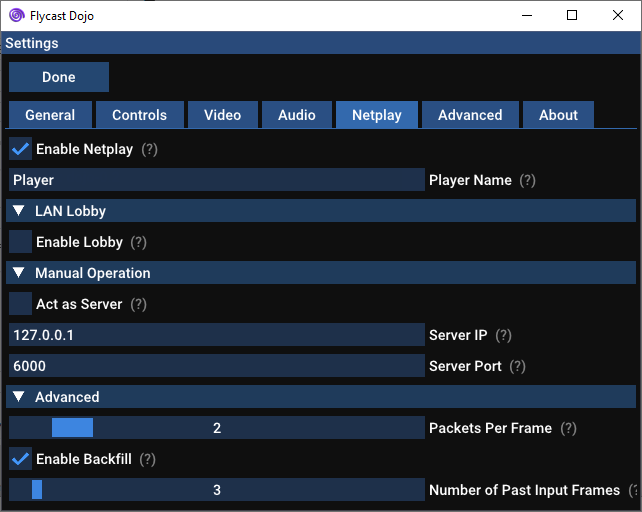
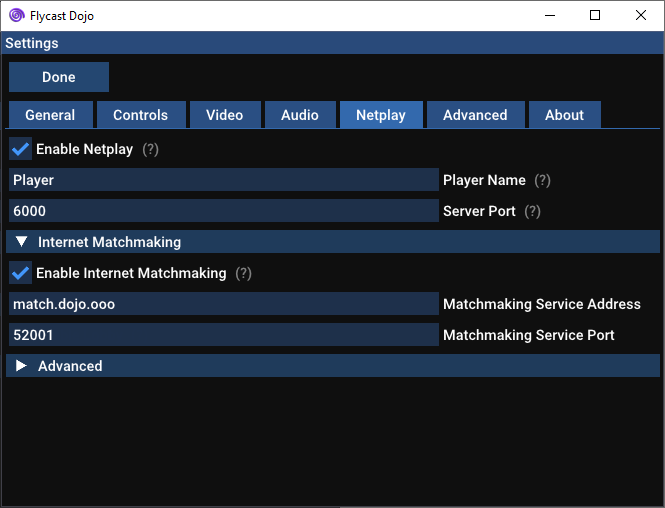
update README, edit ROM folder details, Netplay settings, Match Code command line

diff --git a/README.md b/README.md
@@ -37,17 +37,13 @@ General information about Flycast configuration and supported features can be fo
 - [Roadmap](#roadmap)
 
 # Getting Started
-To get started with Flycast Dojo, make sure that you have the appropriate ROMs and BIOS files available in your ROM and data folders. At the time of writing, the preferred MAME romset for NAOMI & Atomiswave games is the **MAME 0.218** romset.
+To get started with Flycast Dojo, make sure that you have the appropriate ROMs and BIOS files available in your ROM and data folders. At the time of writing, the preferred MAME romset for NAOMI & Atomiswave games is the **MAME 0.226** romset.
 
-If you are running Fightcade, you can find the ROMs folder at `Fightcade\emulator\flycast\ROMS` while non-Fightcade users are free to create a `games` directory inside of the folder they installed Flycast, or point to any other directory on their computer as a **"Content Location"** in the settings.
+If you are running Fightcade, you can find the ROMs folder at `Fightcade\emulator\flycast\ROMS` while non-Fightcade users can use the `ROMS` folder in the Flycast folder.
 
 For the sake of performance, it is advised that you keep your games and the emulator on the same drive.
 
 For the BIOS, be sure to add `awbios.zip` for Atomiswave games or `naomi.zip` for NAOMI games into your `data` directory in the folder you have Flycast installed. In your settings, the folder Flycast is installed in is your **"Home Directory"**.
-
-*In the case of The King of Fighters XI (**kofxi.zip**), the **MAME 0.226** version is known to work, and is the preferred ROM.*
-
-If you plan on using the built-in LAN Lobby, make sure that your **"Content Location"** is set to wherever you are holding your ROMs.
 
 For more information on verifying your BIOS files, you can head to the [Flycast wiki page](https://github.com/TheArcadeStriker/flycast-wiki/wiki/Verifying-your-BIOS-and-Arcade-ROMs) on the topic.
 
@@ -64,9 +60,16 @@ The following is a sample mapping for XInput (XBOX 360) Controllers created by *
 
 
 # Starting a Netplay Session
+
+## Netplay Settings
 You can find the Netplay settings under the "Netplay" section of the emulator's settings:
 
 ![Netplay Options](netplay1.png)
+
+Match Codes are enabled by default, pointing to the default matchmaking relay. To use the LAN Lobby or Manual Operation (i.e., Command Line or External Lobbies) just disable the checkbox from "Enable Internet Matchmaking", or pass `dojo:EnableMatchCode=no` to the command line options.
+
+![Netplay Options - Match Codes Disabled](netplay2.png)
+
 ## Match Code Quick Start
 Using Match Codes, Flycast Dojo can start a P2P game session behind firewalls, so that you can play against others without the need of Radmin or Fightcade. No need to sign up for any accounts or download additional software than Flycast Dojo itself. You should be able to play any games supported by Flycast, so long as you and your opponent have the same ROM.
 
@@ -198,11 +201,11 @@ If your ROM is found in this file, the MD5 Checksum window will say *"Validation
 # Command Line
 You may also call Flycast from the command line. All command line flags correspond with the options found in `emu.cfg`. Here are some example calls:
 
-## Server
-```flycast.exe -config dojo:Enable -config dojo:ActAsServer=yes -config dojo:ServerPort=6000 ControllerTest-DJ.cdi```
+## Server (Without Match Codes)
+```flycast.exe -config dojo:Enable dojo:EnableMatchCode=no -config dojo:ActAsServer=yes -config dojo:ServerPort=6000 ControllerTest-DJ.cdi```
 
-## Client
-```flycast.exe -config dojo:Enable -config dojo:ActAsServer=no -config dojo:ServerIP=127.0.0.1 -config dojo:ServerPort=6000 ControllerTest-DJ.cdi```
+## Client (Without Match Codes)
+```flycast.exe -config dojo:Enable dojo:EnableMatchCode=no -config dojo:ActAsServer=no -config dojo:ServerIP=127.0.0.1 -config dojo:ServerPort=6000 ControllerTest-DJ.cdi```
 
 ## TCP Match Transmission (Spectating)
 _append to server arguments_
